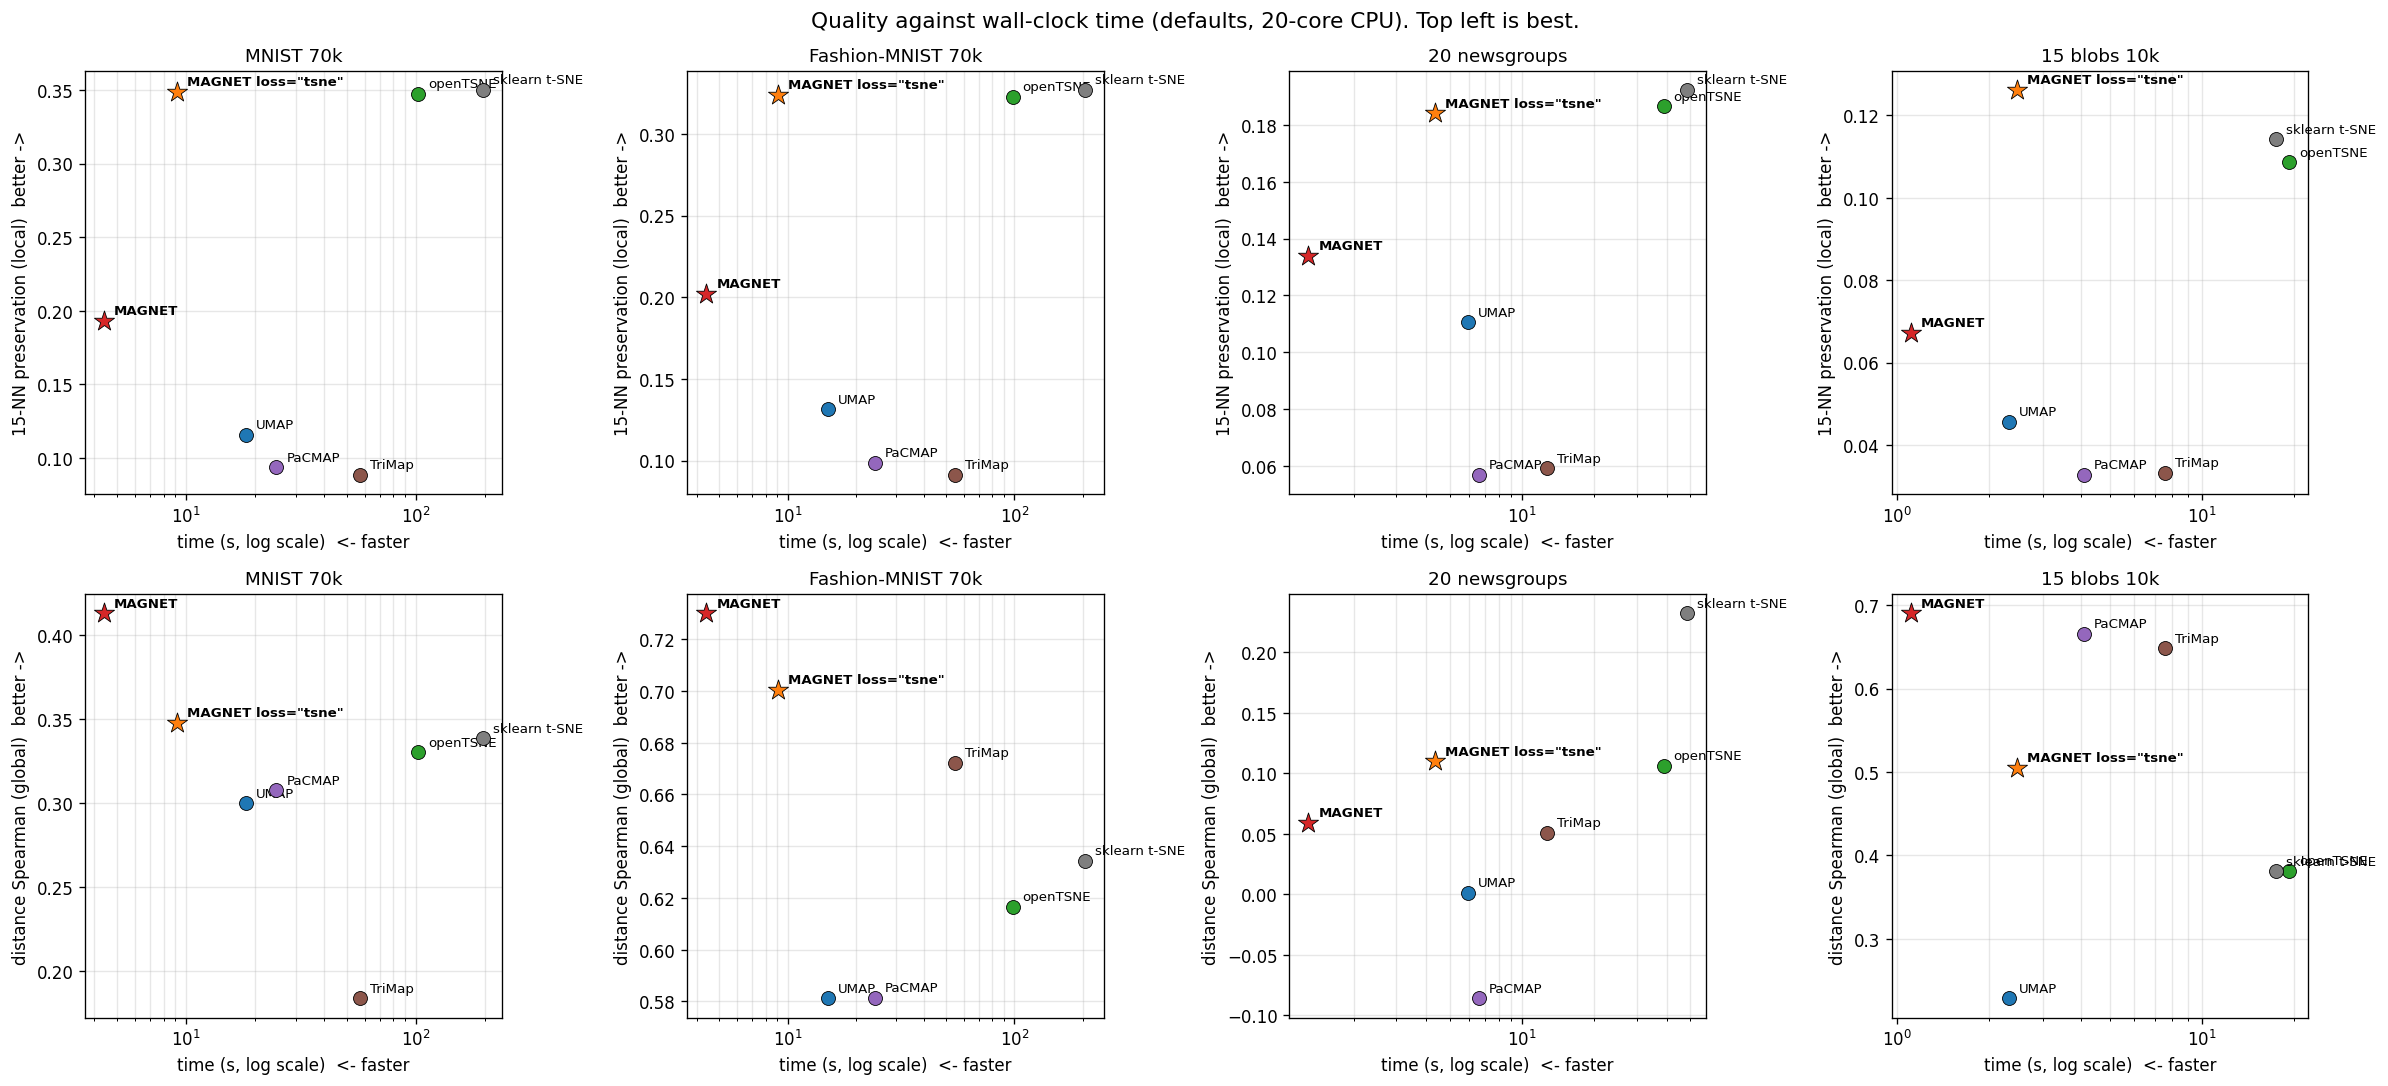
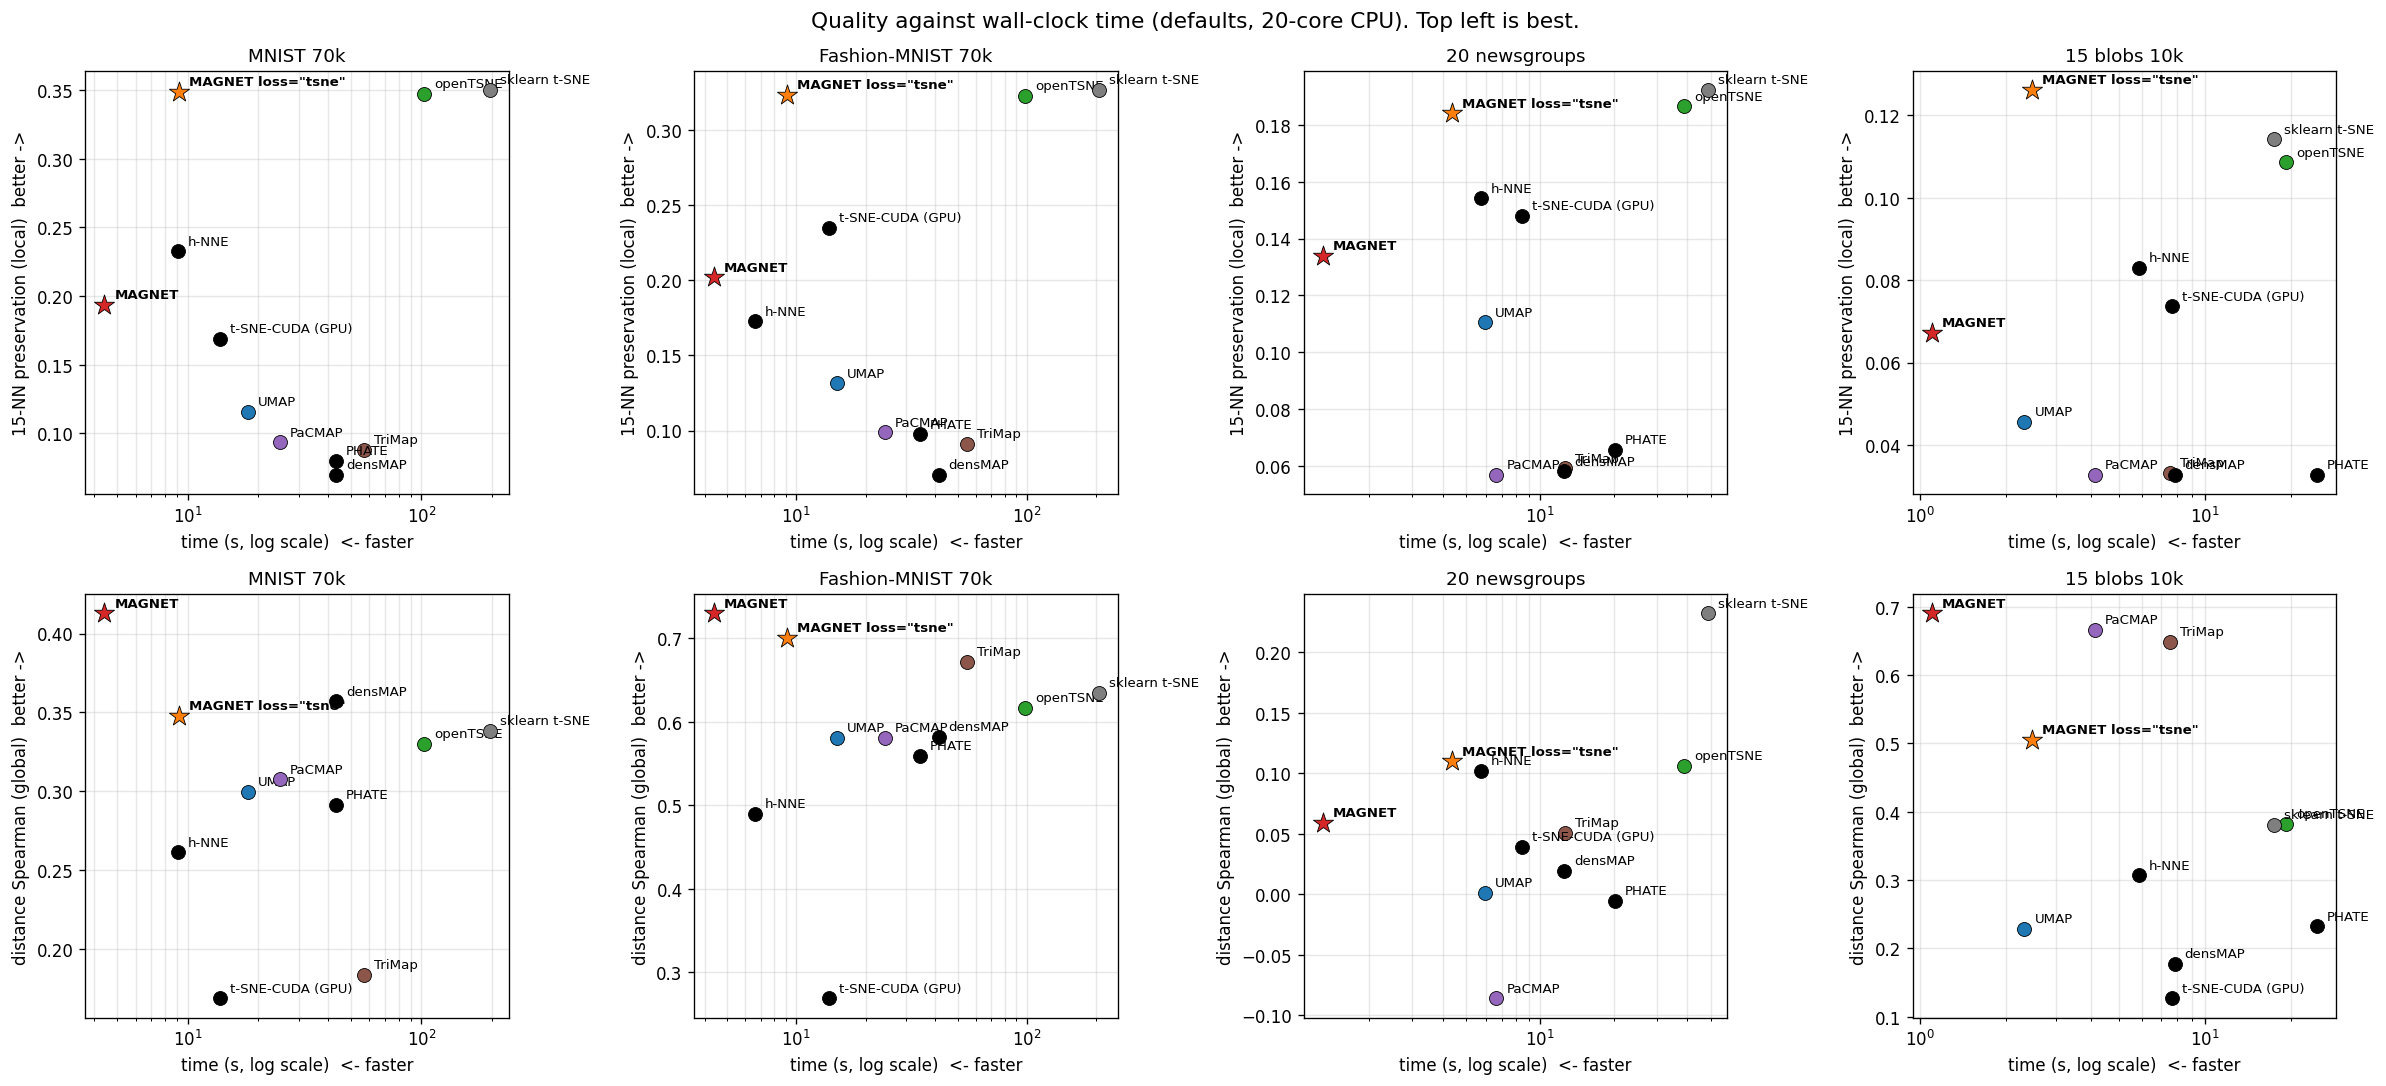
Benchmark panel: densMAP, PHATE, h-NNE and t-SNE-CUDA added on the four data sets; table, trade-off plot and README refreshed

diff --git a/benchmarks/bench.py b/benchmarks/bench.py
@@ -1,5 +1,5 @@
 """Usage: python benchmarks/bench.py METHOD DATASET [n=70000] [key=value ...]
-METHOD in {umap, magnet, opentsne, pacmap, trimap, sktsne} ; results appended to benchmarks/results.jsonl"""
+METHOD in {umap, magnet, opentsne, pacmap, trimap, sktsne, densmap, phate, hnne, tsnecuda, ncvis} ; results appended to benchmarks/results.jsonl"""
 import sys, os, time, json, warnings
 warnings.filterwarnings("ignore")
 sys.path.insert(0, os.path.dirname(os.path.dirname(os.path.abspath(__file__))))
@@ -55,6 +55,31 @@ def run(method, dataset, n=70000, tag="", plot=True, **kw):
         from sklearn.manifold import TSNE
         t = time.time()
         Y = TSNE(n_jobs=-1, init="pca", **kw).fit_transform(np.asarray(data, dtype=np.float32))
+    elif method == "densmap":
+        import umap
+        umap.UMAP(n_neighbors=5, n_epochs=20, densmap=True).fit_transform(np.random.rand(500, 10))  # numba warm-up
+        t = time.time()
+        Y = umap.UMAP(densmap=True, **kw).fit_transform(data)
+    elif method == "phate":
+        import phate
+        t = time.time()
+        Y = phate.PHATE(n_jobs=-1, verbose=0, **kw).fit_transform(np.asarray(data, dtype=np.float32))
+    elif method == "hnne":
+        import hnne
+        t = time.time()
+        Y = hnne.HNNE(**kw).fit_transform(np.asarray(data, dtype=np.float32))
+    elif method == "tsnecuda":   # GPU; needs the CUDA runtime on LD_LIBRARY_PATH (the nvidia pip wheels do)
+        from tsnecuda import TSNE
+        Xc = np.asarray(data, dtype=np.float32)
+        if kw.pop("metric", None) == "cosine":   # no cosine option: L2-normalise, then euclidean
+            Xc = Xc / np.maximum(np.linalg.norm(Xc, axis=1, keepdims=True), 1e-12)
+        TSNE(n_components=2, perplexity=30, random_seed=0).fit_transform(np.random.rand(2000, 10).astype(np.float32))  # context warm-up
+        t = time.time()
+        Y = TSNE(n_components=2, **kw).fit_transform(Xc)
+    elif method == "ncvis":
+        import ncvis
+        t = time.time()
+        Y = ncvis.NCVis(**kw).fit_transform(np.asarray(data, dtype=np.float32))
     else:
         raise ValueError(method)
     elapsed = time.time() - t

diff --git a/benchmarks/make_table.py b/benchmarks/make_table.py
@@ -3,13 +3,14 @@ import os, json, collections
 HERE = os.path.dirname(os.path.abspath(__file__))
 import numpy as np
 
-LABELS = {"umap": "UMAP 0.5.11", "opentsne": "openTSNE 1.0.4", "pacmap": "PaCMAP", "trimap": "TriMap", "sktsne": "sklearn t-SNE (Barnes-Hut)"}
+LABELS = {"umap": "UMAP 0.5.11", "opentsne": "openTSNE 1.0.4", "pacmap": "PaCMAP", "trimap": "TriMap", "sktsne": "sklearn t-SNE (Barnes-Hut)",
+          "densmap": "densMAP (umap-learn 0.5.11)", "phate": "PHATE 2.0", "hnne": "h-NNE", "tsnecuda": "t-SNE-CUDA 3.0.1 (GPU, RTX 2070)"}
 DATASETS = [("mnist70000", "MNIST (70k x 784)"), ("fmnist70000", "Fashion-MNIST (70k x 784)"),
             ("news20", "20 newsgroups (18.8k x 300 SVD, cosine)"), ("blobs10k", "15 Gaussian blobs (10k x 200)")]
 KEYS = [("time", "time (s)", False), ("knn15_preservation", "15-NN pres.", True), ("trustworthiness", "trust.", True),
         ("dist_spearman", "dist. Spearman", True), ("triplet_acc", "triplet acc.", True), ("knn_acc", "10-NN acc.", True),
         ("silhouette", "compactness*", True)]
-ORDER = ["MAGNET (SGD, default)", 'MAGNET (loss="tsne")', "UMAP 0.5.11", "openTSNE 1.0.4", "PaCMAP", "TriMap", "sklearn t-SNE (Barnes-Hut)"]
+ORDER = ["MAGNET (SGD, default)", 'MAGNET (loss="tsne")', "UMAP 0.5.11", "densMAP (umap-learn 0.5.11)", "openTSNE 1.0.4", "PaCMAP", "TriMap", "PHATE 2.0", "h-NNE", "sklearn t-SNE (Barnes-Hut)", "t-SNE-CUDA 3.0.1 (GPU, RTX 2070)"]
 
 
 def name_of(r):

diff --git a/benchmarks/add_methods.py b/benchmarks/add_methods.py
@@ -1,0 +1,23 @@
+"""Run the methods added to the benchmark (densMAP, PHATE, h-NNE, t-SNE-CUDA) on the four data sets with the
+seeds of BENCHMARK.md, appending to results.jsonl with the tags make_table.py expects.
+Usage: LD_LIBRARY_PATH=<nvidia pip libs> python benchmarks/add_methods.py [method ...]"""
+import sys, os, traceback, warnings
+warnings.filterwarnings("ignore")
+HERE = os.path.dirname(os.path.abspath(__file__)); sys.path.insert(0, os.path.dirname(HERE)); sys.path.insert(0, HERE)
+from bench import run
+from full_table import METHODS, DATASETS
+wanted = sys.argv[1:] or ["densmap", "hnne", "tsnecuda", "phate"]
+for key, n, seeds, label in DATASETS:
+    for name, method, kw in METHODS:
+        if method not in wanted:
+            continue
+        kw = dict(kw)
+        if key == "news20":
+            if method in ("umap", "opentsne", "magnet", "densmap", "tsnecuda"): kw["metric"] = "cosine"
+            elif method == "phate": kw["knn_dist"] = "cosine"
+            elif method == "pacmap": kw["distance"] = "angular"
+        for s in range(seeds):
+            try:
+                run(method, key, n=n, tag=f"full_{name.split()[0]}_{s}", plot=False, **kw)
+            except Exception as e:
+                print(f"[{name} on {key}] failed: {e}", file=sys.stderr); traceback.print_exc(); break

diff --git a/benchmarks/full_table.py b/benchmarks/full_table.py
@@ -16,6 +16,10 @@ METHODS = [
     ("PaCMAP", "pacmap", {}),
     ("TriMap", "trimap", {}),
     ("sklearn t-SNE (Barnes-Hut)", "sktsne", {}),
+    ("densMAP (umap-learn 0.5.11)", "densmap", {}),
+    ("PHATE 2.0", "phate", {}),
+    ("h-NNE", "hnne", {}),
+    ("t-SNE-CUDA 3.0.1 (GPU, RTX 2070)", "tsnecuda", {}),
 ]
 DATASETS = [  # (dataset key, n, seeds, metric kwargs per method family, label)
     ("mnist", 70000, 2, "MNIST (70k x 784)"),
@@ -39,8 +43,10 @@ def main():
         for name, method, kw in METHODS:
             kw = dict(kw)
             if key == "news20":
-                if method in ("umap", "opentsne", "magnet"):
+                if method in ("umap", "opentsne", "magnet", "densmap", "tsnecuda"):
                     kw["metric"] = "cosine"
+                elif method == "phate":
+                    kw["knn_dist"] = "cosine"
                 elif method == "pacmap":
                     kw["distance"] = "angular"
             if method == "sktsne" and n > 30000 and not QUICK:

diff --git a/benchmarks/plot_tradeoff.py b/benchmarks/plot_tradeoff.py
@@ -6,7 +6,8 @@ import matplotlib
 matplotlib.use("Agg")
 import matplotlib.pyplot as plt
 
-LABELS = {"magnet": "MAGNET", "umap": "UMAP", "opentsne": "openTSNE", "pacmap": "PaCMAP", "trimap": "TriMap", "sktsne": "sklearn t-SNE"}
+LABELS = {"magnet": "MAGNET", "umap": "UMAP", "opentsne": "openTSNE", "pacmap": "PaCMAP", "trimap": "TriMap", "sktsne": "sklearn t-SNE",
+          "densmap": "densMAP", "phate": "PHATE", "hnne": "h-NNE", "tsnecuda": "t-SNE-CUDA (GPU)"}
 DATASETS = [("mnist70000", "MNIST 70k"), ("fmnist70000", "Fashion-MNIST 70k"), ("news20", "20 newsgroups"), ("blobs10k", "15 blobs 10k")]
 METRICS = [("knn15_preservation", "15-NN preservation (local)"), ("dist_spearman", "distance Spearman (global)")]
 

diff --git a/benchmarks/BENCHMARK.md b/benchmarks/BENCHMARK.md
@@ -11,10 +11,14 @@ Local structure: 15-NN preservation (fraction of each point's 15 nearest neighbo
 | MAGNET (SGD, default) | **4.4** | 0.193 | 0.957 | **0.413** | **0.644** | 0.967 | 0.397 |
 | MAGNET (loss="tsne") | 9.2 | 0.349 | 0.966 | 0.348 | 0.627 | 0.966 | 0.347 |
 | UMAP 0.5.11 | 18.2 | 0.116 | 0.951 | 0.300 | 0.607 | 0.967 | 0.520 |
+| densMAP (umap-learn 0.5.11) | 43.2 | 0.070 | 0.923 | 0.357 | 0.621 | 0.956 | 0.438 |
 | openTSNE 1.0.4 | 102.5 | 0.347 | 0.968 | 0.330 | 0.619 | 0.965 | 0.347 |
 | PaCMAP | 24.8 | 0.093 | 0.946 | 0.307 | 0.614 | **0.976** | **0.579** |
 | TriMap | 57.0 | 0.088 | 0.933 | 0.184 | 0.597 | 0.964 | 0.411 |
+| PHATE 2.0 | 43.2 | 0.080 | 0.865 | 0.291 | 0.611 | 0.861 | 0.224 |
+| h-NNE | 9.1 | 0.233 | 0.940 | 0.261 | 0.601 | 0.949 | 0.232 |
 | sklearn t-SNE (Barnes-Hut) | 195.7 | **0.350** | **0.968** | 0.338 | 0.622 | 0.967 | 0.374 |
+| t-SNE-CUDA 3.0.1 (GPU, RTX 2070) | 13.8 | 0.169 | 0.967 | 0.169 | 0.567 | 0.957 | 0.341 |
 
 ## Fashion-MNIST (70k x 784), 1 seed
 
@@ -23,10 +27,14 @@ Local structure: 15-NN preservation (fraction of each point's 15 nearest neighbo
 | MAGNET (SGD, default) | **4.4** | 0.202 | 0.980 | **0.730** | **0.787** | 0.800 | 0.141 |
 | MAGNET (loss="tsne") | 9.1 | 0.324 | 0.981 | 0.700 | 0.775 | 0.815 | 0.101 |
 | UMAP 0.5.11 | 15.0 | 0.131 | 0.972 | 0.581 | 0.730 | 0.772 | 0.195 |
+| densMAP (umap-learn 0.5.11) | 41.4 | 0.070 | 0.954 | 0.582 | 0.729 | 0.756 | 0.193 |
 | openTSNE 1.0.4 | 98.2 | 0.323 | **0.983** | 0.617 | 0.732 | 0.817 | 0.120 |
 | PaCMAP | 24.2 | 0.099 | 0.971 | 0.581 | 0.729 | 0.773 | **0.209** |
 | TriMap | 55.0 | 0.091 | 0.965 | 0.672 | 0.772 | 0.750 | 0.177 |
+| PHATE 2.0 | 34.3 | 0.097 | 0.924 | 0.560 | 0.726 | 0.721 | 0.129 |
+| h-NNE | 6.6 | 0.173 | 0.912 | 0.490 | 0.698 | 0.805 | 0.129 |
 | sklearn t-SNE (Barnes-Hut) | 204.8 | **0.327** | 0.983 | 0.634 | 0.740 | **0.818** | 0.126 |
+| t-SNE-CUDA 3.0.1 (GPU, RTX 2070) | 13.9 | 0.235 | 0.975 | 0.269 | 0.614 | 0.811 | 0.004 |
 
 ## 20 newsgroups (18.8k x 300 SVD, cosine), 2 seeds
 
@@ -35,10 +43,14 @@ Local structure: 15-NN preservation (fraction of each point's 15 nearest neighbo
 | MAGNET (SGD, default) | **1.3** | 0.134 | 0.760 | 0.059 | 0.529 | 0.508 | -0.111 |
 | MAGNET (loss="tsne") | 4.4 | 0.184 | **0.776** | 0.110 | 0.541 | 0.526 | -0.090 |
 | UMAP 0.5.11 | 5.9 | 0.111 | 0.739 | 0.001 | 0.521 | 0.512 | -0.096 |
+| densMAP (umap-learn 0.5.11) | 12.5 | 0.058 | 0.643 | 0.020 | 0.525 | 0.426 | -0.108 |
 | openTSNE 1.0.4 | 38.8 | 0.187 | 0.772 | 0.106 | 0.542 | **0.535** | **-0.086** |
 | PaCMAP | 6.6 | 0.057 | 0.683 | -0.086 | 0.499 | 0.440 | -0.101 |
 | TriMap | 12.7 | 0.059 | 0.690 | 0.051 | 0.546 | 0.443 | -0.139 |
+| PHATE 2.0 | 20.3 | 0.066 | 0.622 | -0.005 | 0.524 | 0.337 | -0.143 |
+| h-NNE | 5.7 | 0.154 | 0.732 | 0.102 | 0.535 | 0.470 | -0.189 |
 | sklearn t-SNE (Barnes-Hut) | 48.6 | **0.192** | 0.742 | **0.232** | **0.576** | 0.455 | -0.116 |
+| t-SNE-CUDA 3.0.1 (GPU, RTX 2070) | 8.5 | 0.148 | 0.651 | 0.039 | 0.517 | 0.333 | -0.146 |
 
 ## 15 Gaussian blobs (10k x 200), 2 seeds
 
@@ -47,7 +59,11 @@ Local structure: 15-NN preservation (fraction of each point's 15 nearest neighbo
 | MAGNET (SGD, default) | **1.1** | 0.067 | 0.972 | **0.690** | **0.732** |  |  |
 | MAGNET (loss="tsne") | 2.5 | **0.126** | 0.974 | 0.505 | 0.678 |  |  |
 | UMAP 0.5.11 | 2.3 | 0.045 | 0.971 | 0.229 | 0.578 |  |  |
+| densMAP (umap-learn 0.5.11) | 7.8 | 0.033 | 0.969 | 0.178 | 0.564 |  |  |
 | openTSNE 1.0.4 | 19.4 | 0.109 | 0.975 | 0.382 | 0.646 |  |  |
 | PaCMAP | 4.1 | 0.033 | 0.971 | 0.666 | 0.720 |  |  |
 | TriMap | 7.6 | 0.033 | 0.972 | 0.648 | 0.727 |  |  |
+| PHATE 2.0 | 24.8 | 0.033 | 0.968 | 0.232 | 0.571 |  |  |
+| h-NNE | 5.9 | 0.083 | 0.969 | 0.307 | 0.614 |  |  |
 | sklearn t-SNE (Barnes-Hut) | 17.6 | 0.114 | **0.975** | 0.381 | 0.646 |  |  |
+| t-SNE-CUDA 3.0.1 (GPU, RTX 2070) | 7.7 | 0.074 | 0.974 | 0.127 | 0.540 |  |  |
